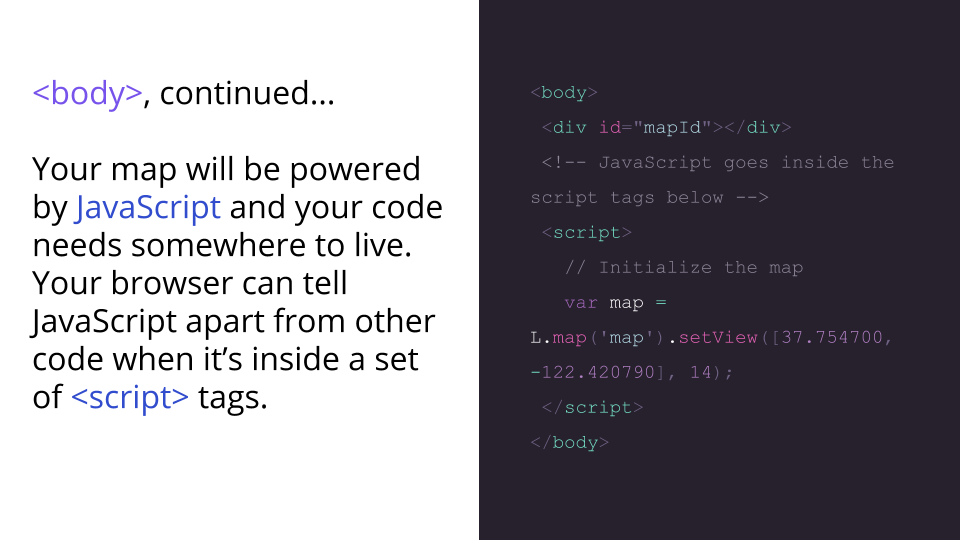
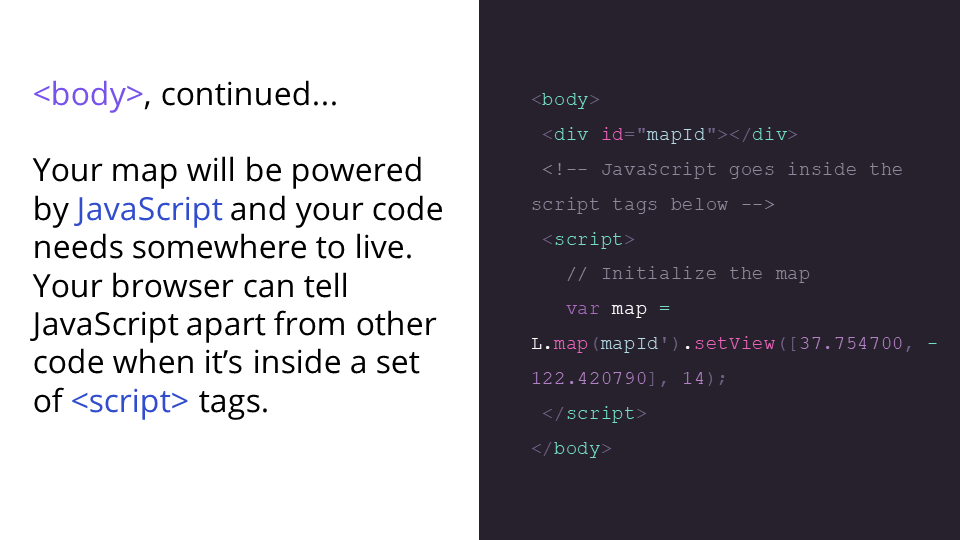
leaflet div

diff --git a/instructions/exercise1.md b/instructions/exercise1.md
@@ -28,7 +28,7 @@ Set the height to 600 pixels.
 
 ![image](images/slide58.png)
 ```js
-var map = L.map('map').setView([37.754700, -122.420790], 14);
+var map = L.map('mapId').setView([37.754700, -122.420790], 14);
 ```
 
 ![image](images/slide60.png)
